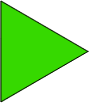
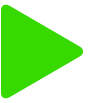
Angular modal service used to create options box

Changed region(s): [[0.0, 0.0, 1.0, 1.0]]

diff --git a/client/js/controllers/creatorController.js b/client/js/controllers/creatorController.js
@@ -1,23 +1,32 @@
-app.controller('creatorController', ['$scope', '$http', 'languageService', function($scope, $http, languageService) {
-  $scope.instructions = [];
-  $scope.instructions.push("on start");
-  $scope.instructions.push("move up 10");
-  $scope.instructions.push("move left 8");
-  $scope.submit = function() {
-    if ($scope.text) {
-      $scope.instructions.push(this.text);
-      $scope.text = '';
+app.controller('creatorController', ['$scope', '$http', 'languageService', 'ModalService',
+  function($scope, $http, languageService, ModalService) {
+    $scope.instructions = [];
+    // $scope.instructions.push("on start");
+    // $scope.instructions.push("move up 10");
+    // $scope.instructions.push("move left 8");
+    $scope.submit = function() {
+      if ($scope.text) {
+        $scope.instructions.push(this.text);
+        $scope.text = '';
+      }
+    };
+    $scope.remove = function(index) {
+      $scope.instructions.splice(index, 1);
     }
-  };
-  $scope.remove = function(index) {
-    $scope.instructions.splice(index, 1);
-  }
-  $scope.run = function() {
-    var error = languageService.run($scope.instructions);
-    if (error != null) {
-      $scope.feedback = "that wasn't quite right";
-    } else {
-      $scope.feedback = "";
+    $scope.run = function() {
+      var error = languageService.run($scope.instructions);
+      if (error != null) {
+        $scope.feedback = "that wasn't quite right";
+      } else {
+        $scope.feedback = "";
+      }
+    };
+
+    $scope.open = function() {
+      ModalService.showModal({
+        templateUrl: "/views/popup.html",
+        controller: "optionsController"
+      }).then(function(modal) {
+      });
     }
-  };
 }]);

diff --git a/client/css/styles.less b/client/css/styles.less
@@ -77,10 +77,11 @@ body {
   a.run {
     float: right;
     margin: 20px 10px 0 0;
-    width: 38px;
+    width: 33px;
     height: 38px;
     background: url('/img/play.png') no-repeat;
-    background-size: 35px 35px;
+    background-size: 30px 35px;
+    cursor: pointer;
   }
   .feedback {
     position: absolute;
@@ -113,13 +114,34 @@ body {
   right: 0;
   height: 100vh;
   width: 69vw;
+
+  .add {
+    float: left;
+    margin: 20px 0px 0 13px;
+    width: 38px;
+    height: 38px;
+    background: url('/img/add.png') no-repeat;
+    background-size: 35px 35px;
+    cursor: pointer;
+  }
+
+  #tor {
+    //TODO: position this based on drag and drop
+    position: absolute;
+    left: 50%;
+    right: 50%;
+    top: 50%;
+    bottom: 50%;
+
+    img {
+      cursor: pointer;
+    }
+  }
 }
 
-#tor {
-  //TODO: position this based on drag and drop
+#select {
   position: absolute;
-  left: 50%;
-  right: 50%;
-  top: 50%;
-  bottom: 50%;
+  width: 80vh;
+  height: 70vh;
+  background: #FFF;
 }

diff --git a/client/css/styles.css b/client/css/styles.css
@@ -72,10 +72,11 @@ body {
 .program a.run {
   float: right;
   margin: 20px 10px 0 0;
-  width: 38px;
+  width: 33px;
   height: 38px;
   background: url('/img/play.png') no-repeat;
-  background-size: 35px 35px;
+  background-size: 30px 35px;
+  cursor: pointer;
 }
 .program .feedback {
   position: absolute;
@@ -105,10 +106,28 @@ body {
   height: 100vh;
   width: 69vw;
 }
-#tor {
+.pad .add {
+  float: left;
+  margin: 20px 0px 0 13px;
+  width: 38px;
+  height: 38px;
+  background: url('/img/add.png') no-repeat;
+  background-size: 35px 35px;
+  cursor: pointer;
+}
+.pad #tor {
   position: absolute;
   left: 50%;
   right: 50%;
   top: 50%;
   bottom: 50%;
+}
+.pad #tor img {
+  cursor: pointer;
+}
+#select {
+  position: absolute;
+  width: 80vh;
+  height: 70vh;
+  background: #FFF;
 }

diff --git a/app.js b/app.js
@@ -32,6 +32,7 @@ app.use('/libs', express.static(__dirname + '/client/libs'));
 app.use('/css', express.static(__dirname + '/client/css'));
 app.use('/img', express.static(__dirname + '/client/img'));
 app.use('/font', express.static(__dirname + '/client/font'));
+app.use('/views', express.static(__dirname + '/client/views'));
 
 app.listen(port);
 

diff --git a/client/js/app.js b/client/js/app.js
@@ -1,1 +1,1 @@
-var app = angular.module('creatorApp', ['ngResource', 'ngDragDrop']);
+var app = angular.module('creatorApp', ['ngResource', 'ngDragDrop', 'angularModalService']);

diff --git a/client/js/controllers/optionsController.js b/client/js/controllers/optionsController.js
@@ -1,0 +1,5 @@
+app.controller('optionsController', ['$scope', 'close', function($scope, close) {
+  $scope.closeOptions = function() {
+    close();
+  };
+}]);

diff --git a/client/views/popup.html b/client/views/popup.html
@@ -1,0 +1,3 @@
+<div id="select" ng-click="closeOptions()">
+
+</div>
